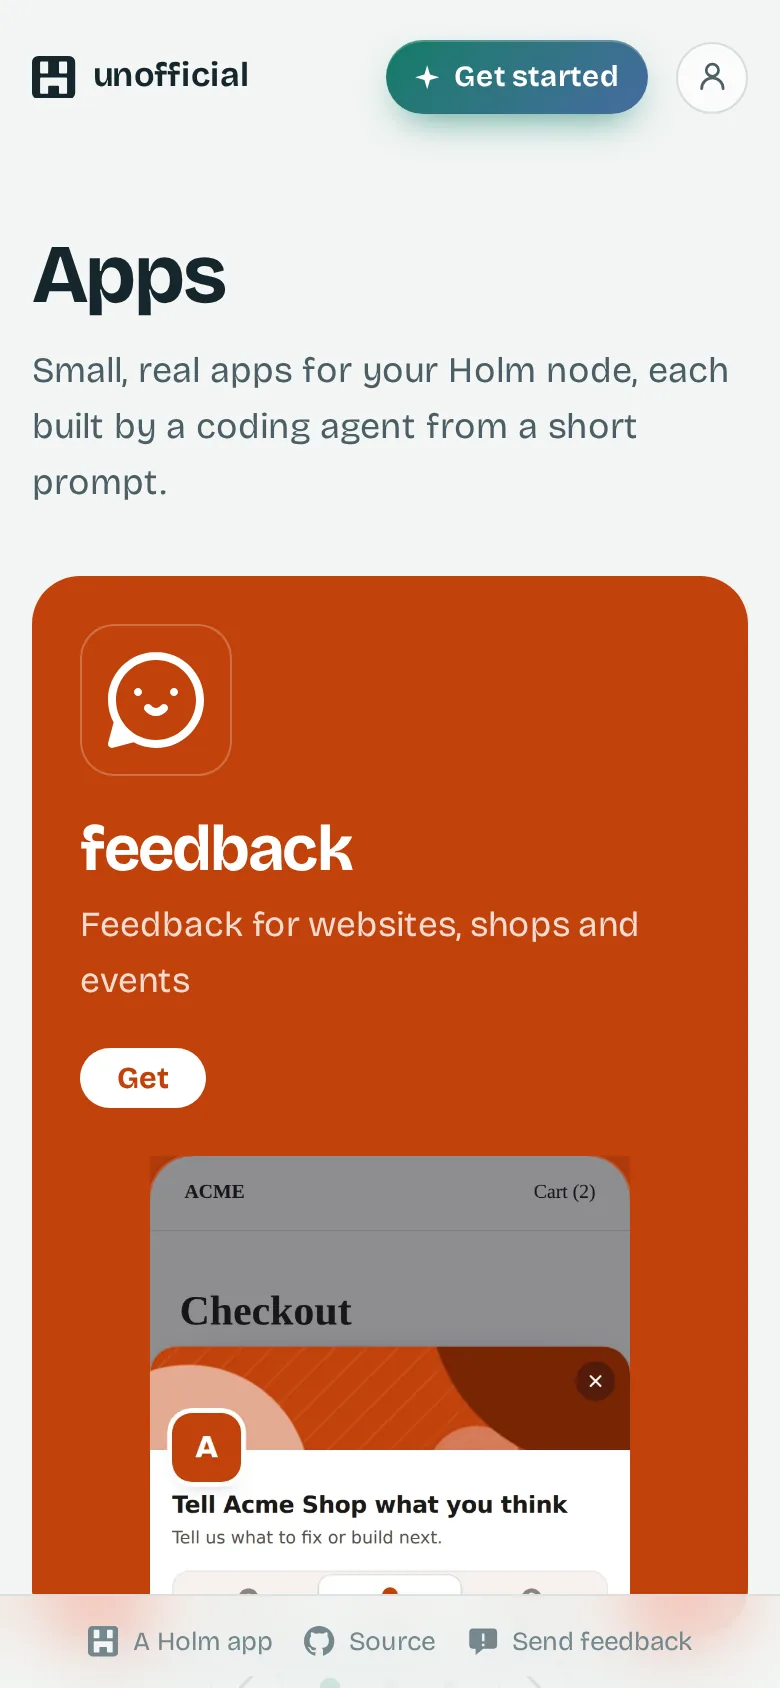
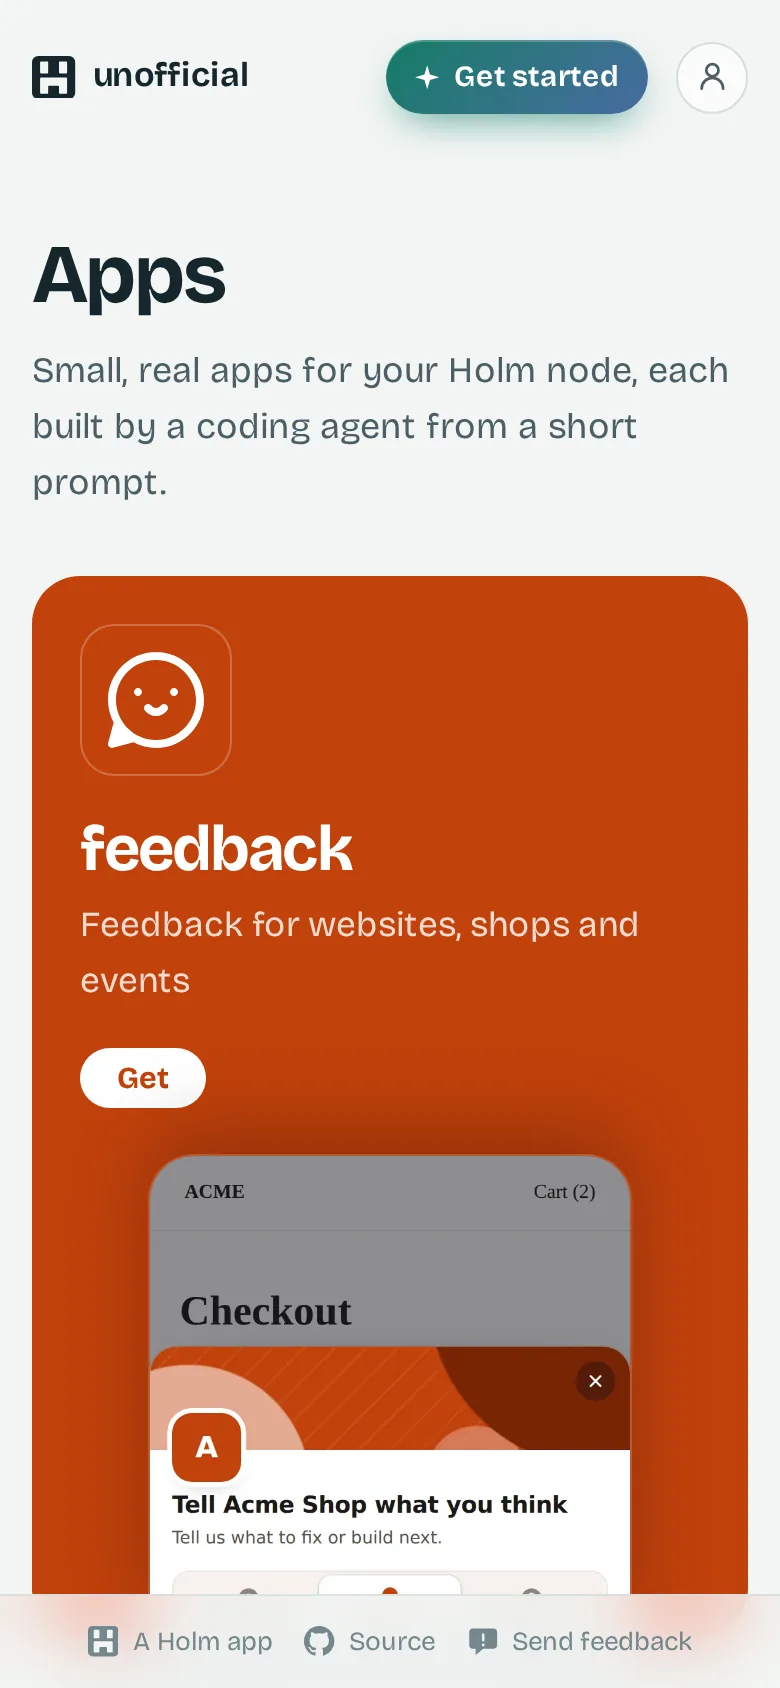
catalog 0.11.0: a slideshow cover you can drag, and a ruled grid
The cover has no controls now: it moves on every six seconds, holds
while a mouse is over it or focus is in it, and never moves by itself
for reduced motion. A mouse drags it (a fifth of the way moves on, and a
drag never opens the card under it) and a finger swipes it.

The cover screenshots rounded their own corners and cast a shadow inside
a frame that clipped square, which filled the corners with shadow; the
frame now rounds, clips and shadows them.

The grid is a ruled table like the facts on an app's page: no boxes, a
line under each row and inset dividers, each cell the icon over the name
and a Get icon.

diff --git a/catalog/web/src/styles.css b/catalog/web/src/styles.css
@@ -245,45 +245,39 @@ main { flex: 1 0 auto; padding-bottom: 3.5rem; }
 .feature h2 a { text-decoration: none; }
 .feature p { margin: 0.5rem 0 1.25rem; max-width: 24em; font-size: 1.1rem; color: rgba(255, 255, 255, 0.82); }
 .feature .get { color: var(--tile, var(--accent)); background: #fff; }
-.feature-shot { align-self: end; height: 21rem; overflow: hidden; }
-.feature-shot img {
-  display: block; width: 100%; height: auto;
+/* The screenshot's frame rounds and clips it, and casts the shadow, so the
+   corners it clips are the corners it rounds. */
+.feature-shot {
+  align-self: end; height: 21rem; overflow: hidden;
   border-radius: 22px 22px 0 0;
   box-shadow: 0 0 0 1px rgba(255, 255, 255, 0.18), 0 -12px 40px rgba(0, 0, 0, 0.25);
 }
+.feature-shot img { display: block; width: 100%; height: auto; }
 @media (max-width: 40rem) {
   .feature { grid-template-columns: 1fr; gap: 0; padding: 1.5rem 1.5rem 0; }
   .feature-text { padding-bottom: 1.5rem; }
   .feature-shot { height: 15rem; width: min(100%, 15rem); justify-self: center; }
 }
 
-/* The cover as a carousel: one featured card per slide, all as tall as the tallest */
+/* The cover as a slideshow: one featured card per slide, all as tall as the tallest */
 .carousel { margin-top: 0.5rem; }
 .carousel-track {
   display: grid; grid-auto-flow: column; grid-auto-columns: 100%; column-gap: 1rem;
   overflow-x: auto; overscroll-behavior-x: contain; scroll-snap-type: x mandatory;
   scrollbar-width: none; position: relative;
   /* room for the cards' shadow, which the scroller would otherwise clip */
-  padding-bottom: 2.75rem; margin-bottom: -2.25rem;
+  padding-bottom: 2.75rem; margin-bottom: -2.75rem;
 }
 .carousel-track::-webkit-scrollbar { display: none; }
+.carousel-track img, .carousel-track a { -webkit-user-drag: none; user-select: none; }
+@media (hover: hover) {
+  .carousel-track { cursor: grab; }
+}
+/* While a mouse drags, the track follows it exactly: no snapping, no easing. */
+.carousel-track.dragging { cursor: grabbing; user-select: none; }
+.carousel-track.dragging, .carousel-track.settling { scroll-snap-type: none; }
 .slide { display: grid; scroll-snap-align: start; scroll-snap-stop: always; }
 .slide > .feature { margin-top: 0; }
-.carousel-nav { display: flex; align-items: center; justify-content: center; gap: 0.75rem; }
-.dots { display: flex; gap: 0.25rem; }
-.dots .dot { width: 1.6rem; height: 1.6rem; padding: 0; border: 0; background: none; cursor: pointer; display: grid; place-items: center; }
-.dots .dot::before { content: ""; width: 0.5rem; height: 0.5rem; border-radius: 50%; background: var(--rule); transition: transform 200ms, background-color 200ms; }
-.dots .dot[aria-current="true"]::before { background: var(--accent); transform: scale(1.3); }
-.carousel-nav .arrow {
-  display: grid; place-items: center; width: 2.25rem; height: 2.25rem; padding: 0;
-  border: 1px solid var(--rule); border-radius: 50%; background: var(--sheet); color: var(--ink-2); cursor: pointer;
-}
-.carousel-nav .arrow:hover { color: var(--ink); border-color: var(--ink-3); }
-.carousel-nav .arrow svg { width: 0.5rem; height: 0.85rem; fill: none; stroke: currentColor; stroke-width: 2.4; stroke-linecap: round; stroke-linejoin: round; }
-.carousel-nav .arrow:last-child svg { transform: scaleX(-1); }
-@media (prefers-reduced-motion: reduce) {
-  .dots .dot::before { transition: none; }
-}
 
 .shelf { margin-top: 3rem; }
 .shelf h2 { padding-bottom: 0.5rem; border-bottom: 1px solid var(--rule); }
@@ -324,24 +318,31 @@ main { flex: 1 0 auto; padding-bottom: 3.5rem; }
 .views button[aria-pressed="true"] { background: var(--accent-wash); color: var(--accent); }
 .views svg { width: 1.15rem; height: 1.15rem; }
 
-/* The grid view: near-square tiles, the icon, then category and Get */
-.cards { list-style: none; margin: 1.25rem 0 0; padding: 0; display: grid; grid-template-columns: repeat(auto-fill, minmax(9.5rem, 1fr)); gap: 1rem; }
-.app-card {
-  aspect-ratio: 1 / 1; min-width: 0;
-  display: grid; grid-template-rows: minmax(0, 1fr) auto;
-  padding: 0.85rem 0.85rem 0.8rem; border-radius: 22px;
-  background: var(--sheet); border: 1px solid var(--rule);
+/* The grid view: a ruled table of cells, like the facts on an app's page.
+   Each cell draws the line below it and the divider to its right, inset like
+   the facts' dividers; the grid clips the ones past its edges. */
+.cards {
+  list-style: none; margin: 0; padding: 0 0 1px;
+  display: grid; grid-template-columns: repeat(auto-fill, minmax(10rem, 1fr));
+  overflow: hidden;
 }
-.app-card-link { display: grid; place-items: center; border-radius: 16px; text-decoration: none; }
-.app-card-link .icon { transition: transform 200ms cubic-bezier(0.2, 0.8, 0.2, 1); }
+.app-card { position: relative; display: grid; gap: 1rem; min-width: 0; padding: 1.5rem 1.1rem 1.1rem; }
+.app-card::before { content: ""; position: absolute; left: 0; right: 0; bottom: -1px; height: 1px; background: var(--rule); }
+.app-card::after { content: ""; position: absolute; right: -1px; top: 1.1rem; bottom: 1.1rem; width: 1px; background: var(--rule); }
+/* nothing to divide from after the last one */
+.app-card:last-child::after { display: none; }
+.app-card-icon { justify-self: center; border-radius: 22%; }
+.app-card-icon .icon { transition: transform 200ms cubic-bezier(0.2, 0.8, 0.2, 1); }
 @media (hover: hover) {
-  .app-card-link:hover .icon { transform: translateY(-2px) scale(1.04); }
+  .app-card:hover .app-card-icon .icon { transform: translateY(-2px) scale(1.04); }
 }
 @media (prefers-reduced-motion: reduce) {
-  .app-card-link .icon { transition: none; }
+  .app-card-icon .icon { transition: none; }
 }
-.app-card-foot { display: flex; align-items: center; justify-content: space-between; gap: 0.5rem; }
-.app-card-cat { min-width: 0; overflow: hidden; text-overflow: ellipsis; white-space: nowrap; font-size: 0.82rem; color: var(--ink-3); }
+.app-card-foot { display: flex; align-items: center; justify-content: space-between; gap: 0.5rem; min-width: 0; }
+.app-card-name { min-width: 0; overflow: hidden; text-overflow: ellipsis; white-space: nowrap; font-size: 1.02rem; font-weight: 650; letter-spacing: -0.01em; text-decoration: none; }
+.app-card-name:hover { text-decoration: underline; text-underline-offset: 0.18em; }
+.app-card-hidden { font-weight: 400; color: var(--ink-3); }
 .get-icon {
   flex: none; display: grid; place-items: center;
   width: 2.25rem; height: 2.25rem; padding: 0;
@@ -354,8 +355,8 @@ main { flex: 1 0 auto; padding-bottom: 3.5rem; }
 }
 .get-icon svg { width: 1.1rem; height: 1.1rem; fill: none; stroke: currentColor; stroke-width: 2; stroke-linecap: round; stroke-linejoin: round; }
 @media (max-width: 36rem) {
-  .cards { grid-template-columns: repeat(2, minmax(0, 1fr)); gap: 0.75rem; }
-  .app-card { border-radius: 20px; }
+  .cards { grid-template-columns: repeat(2, minmax(0, 1fr)); }
+  .app-card { padding: 1.25rem 0.85rem 1rem; }
 }
 
 .empty { margin-top: 1.5rem; padding: 1.25rem 1.3rem; border-radius: 16px; border: 1px dashed var(--rule); color: var(--ink-2); }

diff --git a/catalog/web/src/app.js b/catalog/web/src/app.js
@@ -82,59 +82,97 @@ function featured(app, lazy = false) {
       shotImage({ src: shotURL(app, shot), alt: shot.alt, width: shot.width, height: shot.height, loading: lazy ? 'lazy' : null })))
 }
 
-// The cover, when several apps are featured: each one's card in turn. Swipe
-// or scroll it, or use the arrows and dots. It moves on by itself every few
-// seconds, waiting while a pointer or focus is on it, never for reduced
-// motion, and not again once someone has moved it themselves.
+// The cover, when several apps are featured: a slideshow of their cards. It
+// moves on every few seconds, and holds while a pointer is over it or focus is
+// in it, and never for reduced motion. A mouse drags it, a finger swipes it.
 function carousel(apps) {
   const track = el('div', { class: 'carousel-track' }, apps.map((app, i) => el('div', {
     class: 'slide', role: 'group', 'aria-roledescription': 'slide', 'aria-label': `${i + 1} of ${apps.length}: ${app.title}`
   }, featured(app, i > 0))))
   const still = matchMedia('(prefers-reduced-motion: reduce)')
+  const width = () => track.children[1].offsetLeft - track.children[0].offsetLeft
   let at = 0
-  const dots = apps.map((app, i) => el('button', { type: 'button', class: 'dot', 'aria-label': 'Show ' + app.title, onclick: () => { stop(); go(i) } }))
-  const mark = () => dots.forEach((dot, i) => dot.setAttribute('aria-current', String(i === at)))
   const go = i => {
     at = (i + apps.length) % apps.length
     track.scrollTo({ left: track.children[at].offsetLeft, behavior: still.matches ? 'instant' : 'smooth' })
-    mark()
   }
-  // The slide in view lights its dot, however it got there.
-  track.addEventListener('scroll', () => {
-    const step = track.children[1].offsetLeft - track.children[0].offsetLeft
-    const i = Math.round(track.scrollLeft / step)
-    if (i !== at) { at = i; mark() }
-  }, { passive: true })
+  track.addEventListener('scroll', () => { at = Math.round(track.scrollLeft / width()) }, { passive: true })
 
+  // The clock starts over whenever a hand lets go, so a slide never moves the
+  // moment someone stops looking at it.
   let timer = null, held = false
-  const stop = () => { clearInterval(timer); timer = null }
-  if (!still.matches) {
+  const run = () => {
+    clearInterval(timer)
+    if (still.matches) return
     timer = setInterval(() => {
-      if (!track.isConnected) return stop()
+      if (!track.isConnected) return clearInterval(timer)
       if (!held && !document.hidden) go(at + 1)
     }, 6000)
   }
-  for (const kind of ['pointerdown', 'wheel', 'touchstart']) track.addEventListener(kind, stop, { passive: true })
-  const arrow = (step, label) => el('button', { type: 'button', class: 'arrow', 'aria-label': label, onclick: () => { stop(); go(at + step) } }, chevron())
-  const root = el('section', { class: 'carousel', 'aria-roledescription': 'carousel', 'aria-label': 'Featured apps' },
-    track,
-    el('div', { class: 'carousel-nav' }, arrow(-1, 'Previous app'), el('div', { class: 'dots' }, dots), arrow(1, 'Next app')))
-  root.addEventListener('pointerenter', () => { held = true })
-  root.addEventListener('pointerleave', () => { held = false })
-  root.addEventListener('focusin', () => { held = true })
-  root.addEventListener('focusout', () => { held = false })
-  mark()
+  const hold = on => { held = on; if (!on) run() }
+
+  // Dragging with a mouse: the track follows the pointer, then settles on the
+  // next slide if it went a fifth of the way there, or back if not. A drag
+  // isn't a click on the card under it.
+  let drag = null, dragged = false
+  track.addEventListener('pointerdown', event => {
+    if (event.pointerType !== 'mouse' || event.button !== 0) return
+    drag = { x: event.clientX, left: track.scrollLeft, from: at }
+    dragged = false
+  })
+  track.addEventListener('pointermove', event => {
+    if (!drag) return
+    const dx = event.clientX - drag.x
+    if (!dragged && Math.abs(dx) < 6) return
+    if (!dragged) {
+      dragged = true
+      track.setPointerCapture(event.pointerId)
+      track.classList.add('dragging')
+    }
+    track.scrollLeft = drag.left - dx
+  })
+  const drop = () => {
+    if (!drag) return
+    const moved = (track.scrollLeft - drag.left) / width()
+    const from = drag.from
+    drag = null
+    if (!dragged) return
+    // Snapping stays off until the slide has eased into place, or it would jump there first.
+    track.classList.replace('dragging', 'settling')
+    const settled = () => track.classList.remove('settling')
+    track.addEventListener('scrollend', settled, { once: true })
+    setTimeout(settled, 800)
+    go(moved > 0.2 ? Math.min(from + 1, apps.length - 1) : moved < -0.2 ? Math.max(from - 1, 0) : from)
+  }
+  track.addEventListener('pointerup', drop)
+  track.addEventListener('pointercancel', drop)
+  track.addEventListener('click', event => {
+    if (!dragged) return
+    event.preventDefault()
+    event.stopPropagation()
+    dragged = false
+  }, true)
+  track.addEventListener('dragstart', event => event.preventDefault())
+
+  const root = el('section', { class: 'carousel', 'aria-roledescription': 'carousel', 'aria-label': 'Featured apps' }, track)
+  root.addEventListener('pointerenter', event => { if (event.pointerType === 'mouse') hold(true) })
+  root.addEventListener('pointerleave', event => { if (event.pointerType === 'mouse') hold(false) })
+  track.addEventListener('touchstart', () => hold(true), { passive: true })
+  track.addEventListener('touchend', () => hold(false), { passive: true })
+  root.addEventListener('focusin', () => hold(true))
+  root.addEventListener('focusout', () => hold(false))
+  run()
   return root
 }
 
-// A grid view's tile, near square: the icon, then the category and a Get
-// button as an icon. The name is the link's label and the tile's tooltip.
+// A grid view's cell: the icon, then the name and a Get button as an icon.
+// The icon repeats the name's link for the pointer, so it is skipped by keys.
 function card(app) {
-  return el('li', { class: 'app-card', title: app.title },
-    el('a', { class: 'app-card-link', href: withRef('/apps/' + app.path), 'data-link': true, 'aria-label': `${app.title}: ${subtitle(app)}` },
-      icon(app, 'l')),
+  const href = withRef('/apps/' + app.path)
+  return el('li', { class: 'app-card' },
+    el('a', { class: 'app-card-icon', href, 'data-link': true, tabindex: '-1', 'aria-hidden': 'true' }, icon(app, 'l')),
     el('div', { class: 'app-card-foot' },
-      el('span', { class: 'app-card-cat' }, app.hidden ? 'Hidden' : (app.listing && app.listing.category) || ''),
+      el('a', { class: 'app-card-name', href, 'data-link': true, title: subtitle(app) }, app.title, app.hidden ? el('span', { class: 'app-card-hidden' }, ' · hidden') : null),
       el('button', { type: 'button', class: 'get-icon', 'aria-label': 'Get ' + app.title, title: 'Get ' + app.title, onclick: () => openInstall(app) }, glyph(GET))))
 }
 

diff --git a/catalog/README.md b/catalog/README.md
@@ -26,13 +26,15 @@ out of this app's deploy. They are still public source in this repository.
 - **Front page:** the cover, then **All apps** with a search field and a
   list/grid switch beside its heading, then every app as a row or a tile.
   - **The cover** is each featured app's card on its own colour (icon,
-    title, subtitle, Get and its first screenshot). With more than one
-    featured app it is a carousel: swipe or scroll it, or use its arrows and
-    dots. It moves on every six seconds, waits while a pointer or focus is
-    on it, stops for good once someone moves it, and never moves by itself
-    for reduced motion. Every slide is as tall as the tallest, so nothing
-    below it moves. An app is featured by `"featured": true` in its
-    `listing/listing.json`.
+    title, subtitle, Get and its first screenshot, in a frame that rounds,
+    clips and shadows it). With more than one featured app it is a
+    slideshow with no controls: it moves on every six seconds and holds
+    while a mouse is over it or focus is in it, and never moves by itself
+    for reduced motion. A mouse drags it (a fifth of the way is enough to
+    move on, and a drag never opens the card under it) and a finger swipes
+    it; the six seconds start over when either lets go. Every slide is as
+    tall as the tallest, so nothing below it moves. An app is featured by
+    `"featured": true` in its `listing/listing.json`.
   - **Search** filters as you type, on name, subtitle, description and
     category; every word must match. The query lives in the address
     (`?q=`), so a search can be shared and Back brings it back, and the
@@ -41,9 +43,10 @@ out of this app's deploy. They are still public source in this repository.
     nothing matches the page offers to clear it or to build the app with
     your agent (`/start#build`).
   - **List or grid**, remembered in the browser. A row has the icon, name,
-    subtitle, category and Get; a grid tile is near square, the icon over
-    its category and a Get icon, with the name as its label and tooltip.
-    The grid is two columns on a phone.
+    subtitle, category and Get. The grid is a ruled table like the facts on
+    an app's page: no boxes, a line under each row and inset dividers
+    between cells, each cell near square with the icon over the name and a
+    Get icon. It is two columns on a phone.
 - **Get started** at `/start`, linked from the install sheet and from the
   header on every page, where it is a tinted pill with a sparkle and a light
   that sweeps across it now and then (still for reduced motion). It assumes

diff --git a/catalog/PROMPT.md b/catalog/PROMPT.md
@@ -26,10 +26,11 @@ third-party runtime CDN; vendor fonts and any libraries with licenses.
   the base64 digest with h1:. Exclude listing/ and hidden files; count README
   and PROMPT too. --check detects stale indexes or changed release tags;
   --tag creates missing tags. CI checks then tags versions on main.
-- An App Store-like front page: a carousel of the featured apps' cards,
+- An App Store-like front page: a slideshow of the featured apps' cards
+  (no controls; it holds under the mouse, and a mouse drags it),
   then all apps with search (as you type, kept in ?q=) and a list/grid
-  switch below it; grid tiles are near square, the icon over its category
-  and a Get icon. Each app's own
+  switch below it; the grid is ruled like the facts strip (no boxes), each
+  near-square cell the icon over the name and a Get icon. Each app's own
   /apps/<app> page: icon/colour, version, size, category, license, swipeable
   screenshots, description, whatsNew, original prompt and source information.
   Read the public repository index with synchronous env.holm.net.fetch,
@@ -219,6 +220,26 @@ owner picked the belt.
 
 feedback was featured alongside pastebin and overlap; the carousel shows
 them in the index's order.
+
+**Iteration 13**:
+
+> No, the grid is terrible.
+> - perhaps it should be just:
+> - icon
+> - <name> <install-icon>
+> - the rounded border is pathetic, what about just square grid similar in style to meta info display table in detail page
+
+**Iteration 14**, sent while the agent was working on the grid:
+
+> The carousel's control is hideous, avoid it
+> - it should automatically slide and show a slide show unless you place a mouse over it
+> - a mouse can drag the slides
+> - i also noticed a small visual issue
+> - the mobile screen shots in covers have a translucent background with sharp edges
+
+The screenshots rounded their own corners and cast a shadow inside a frame
+that clipped square, so the shadow filled the corners; the frame now rounds,
+clips and shadows them.
 
 The build request spells out the repository conventions without claiming
 they are a shipped Holm store protocol. It uses the public v1 guide for
